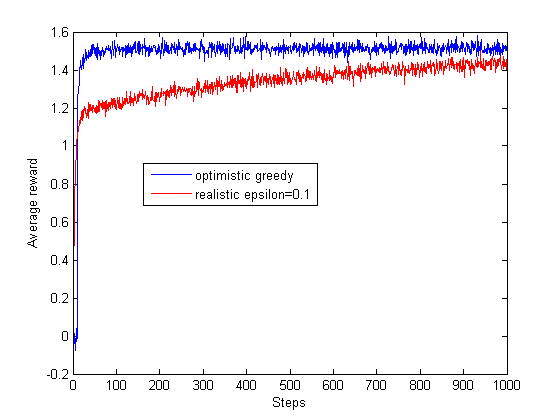
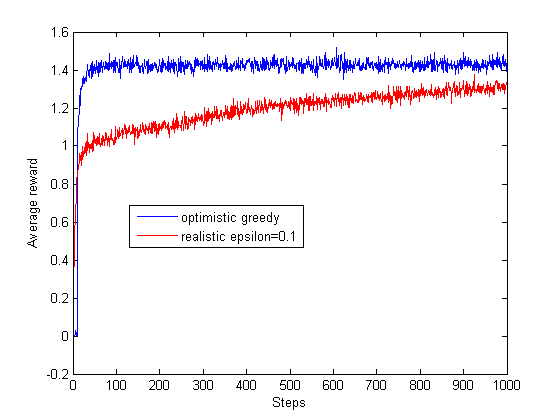
Initial commit

diff --git a/Programming examples for the book - Reinforcement learning - an introduction/Examples/Chapter 2.5/ten_armed_bandit_testbed.m b/Programming examples for the book - Reinforcement learning - an introduction/Examples/Chapter 2.5/ten_armed_bandit_testbed.m
@@ -3,8 +3,7 @@ function [rewards,optimalActPercentage]=ten_armed_bandit_testbed(epsilon,bias)
 numSteps=1000;
 
 %Generate the position of the ceneter of distribution for every arm 
-arms=rand(10,2000);
-arms=arms*4-2; %Positioned randomly int the interval [-2,2]
+arms=normrnd(zeros(10,2000),1);
 
 numTimesUsed=zeros(10,2000);
 Qt=repmat(bias,10,2000);
